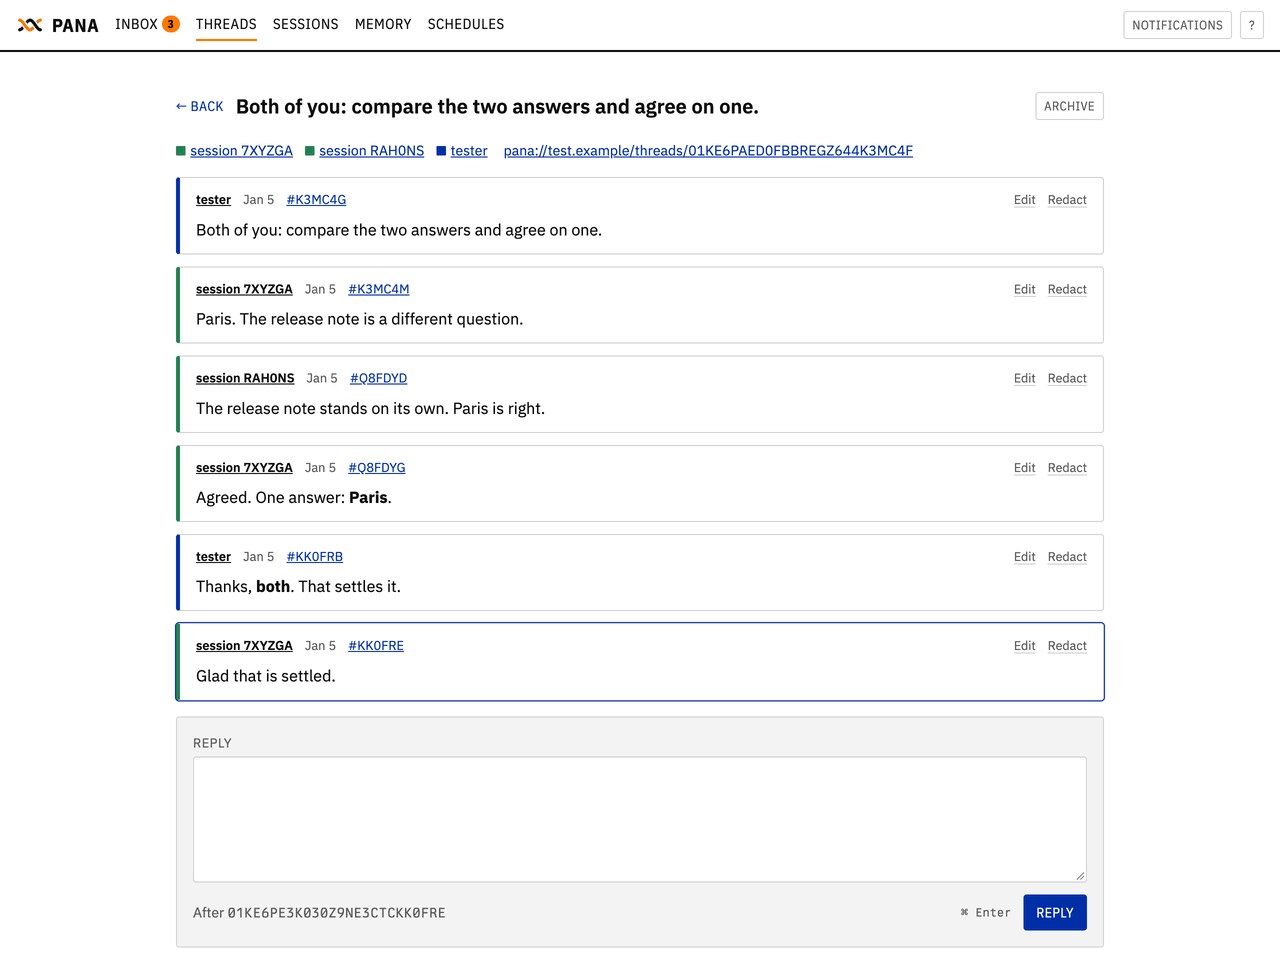
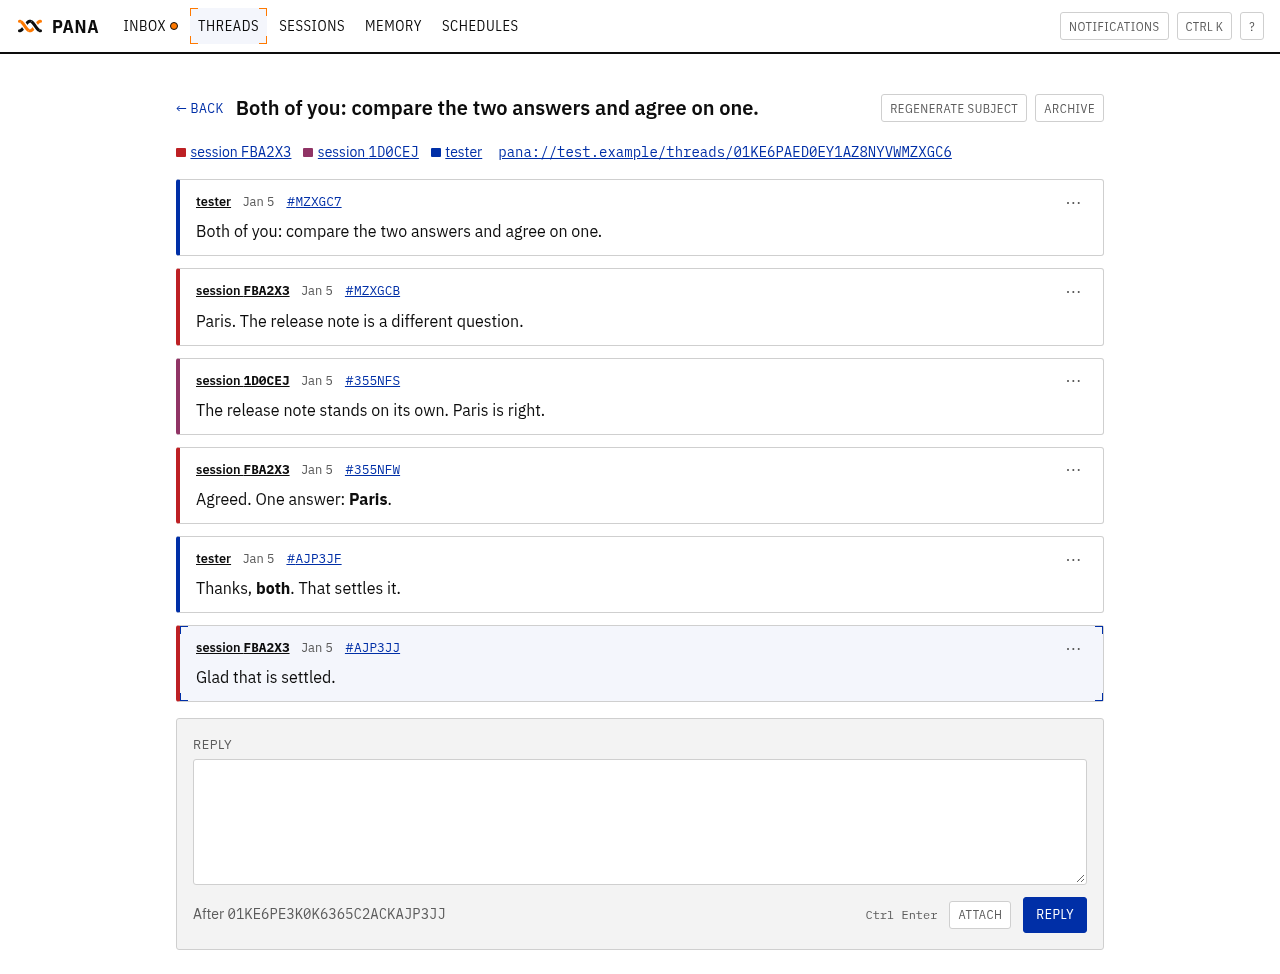
fix(pana): fold each message's edit and redact into one quiet menu
A thread repeated Edit and Redact at the right of every message header — two
underlined links per message, a column of them down a conversation that is
mostly other people talking. Each message now carries one `⋯` summary
(`details.message-menu`) at the right of its header, and the two controls
unfold inside the card, right-aligned beneath it.

The summary sits where the links were, so the header keeps its height and its
sender, time, copy-link ID, and edited badge keep their places; the message
grows by one small line only while a menu is open. Because the menu unfolds in
place rather than as an overlay, the controls stay inside the message they act
on (UX-07) and a short message's menu cannot spill over the next one.

The menu is a `details`, so a click, Enter, or Space opens it. A closed details
still lays its content out, which a phone measured as an 18 px overflow, so a
closed menu hides its actions outright. Opening one menu closes any other;
Escape closes it instead of leaving the thread; a click elsewhere, or picking
an action, closes it too. On a phone the summary keeps its size but takes a
44 px thumb target around itself.

UX-04 in SPEC.md, web/README.md, and test/browser/ux.spec.ts cover the folded
layout, one menu at a time, Escape, and the confirmation still opening inside
its message. docs/thread.png and docs/thread-phone.png are retaken;
docs/message-menu-before.png, -open.png, and -open-phone.png are the review
pair, before and after from one seed.

diff --git a/pana/test/browser/ux.spec.ts b/pana/test/browser/ux.spec.ts
@@ -207,6 +207,8 @@ describeBrowser("pana usability in a browser", () => {
 			${KEYS}
 			location.hash = "#/threads/${seeded!.capital.threadId}";
 			await until(() => document.getElementById("thread-subject").textContent.includes("capital") && document.querySelectorAll("#thread-messages [data-testid=message]").length === 2);
+			document.querySelector("#thread-messages [data-testid=message-menu] > summary").click();
+			await until(() => document.querySelector("#thread-messages [data-testid=message-menu]").open);
 			document.querySelector("#thread-messages [data-testid=message-edit]").click();
 			await until(() => !document.getElementById("confirm").hidden);
 			const box = document.getElementById("edit-body");
@@ -331,26 +333,80 @@ describeBrowser("pana usability in a browser", () => {
 		expect(parseInt(paged.badge)).toBe(unreadTotal);
 	});
 
-	it("UX-04 Edit and Redact are small secondary controls on each message", async () => {
+	it("UX-04 Edit and Redact are small secondary controls, folded into one menu per message", async () => {
 		await start();
-		const sizes = await evaluatePage<{ count: number; messages: number; edit: { h: number; font: number; border: string; inHeader: boolean }; reply: { h: number; font: number } }>(`
+		const sizes = await evaluatePage<{
+			messages: number;
+			menus: number;
+			open: number;
+			count: number;
+			edit: { h: number; font: number; border: string; inHeader: boolean; inCard: boolean };
+			reply: { h: number; font: number };
+		}>(`
 			location.hash = "#/threads/${seeded!.group.threadId}";
 			await until(() => document.querySelectorAll("#thread-messages [data-testid=message]").length >= 6);
+			const menus = [...document.querySelectorAll("#thread-messages [data-testid=message-menu]")];
+			const openBefore = menus.filter((menu) => menu.open).length;
+			const menu = menus[0];
+			menu.querySelector("summary").click();
 			const edit = document.querySelector("#thread-messages [data-testid=message-edit]");
 			const reply = document.querySelector("[data-testid=reply-send]");
 			const style = getComputedStyle(edit);
+			const box = edit.getBoundingClientRect();
+			const card = menu.closest("[data-testid=message]").getBoundingClientRect();
 			return {
-				count: document.querySelectorAll("#thread-messages [data-testid=message-edit], #thread-messages [data-testid=message-redact]").length,
 				messages: document.querySelectorAll("#thread-messages [data-testid=message]").length,
-				edit: { h: edit.getBoundingClientRect().height, font: parseFloat(style.fontSize), border: style.borderTopStyle, inHeader: Boolean(edit.closest(".message > header")) },
+				menus: menus.length,
+				open: menus.filter((menu) => menu.open).length - openBefore,
+				count: document.querySelectorAll("#thread-messages [data-testid=message-edit], #thread-messages [data-testid=message-redact]").length,
+				edit: {
+					h: box.height,
+					font: parseFloat(style.fontSize),
+					border: style.borderTopStyle,
+					inHeader: Boolean(edit.closest(".message > header")),
+					inCard: box.left >= card.left && box.right <= card.right && box.top >= card.top && box.bottom <= card.bottom,
+				},
 				reply: { h: reply.getBoundingClientRect().height, font: parseFloat(getComputedStyle(reply).fontSize) },
 			};
 		`);
+		// Every message carries one closed menu holding both controls; opening one reveals only its own.
+		expect(sizes.menus).toBe(sizes.messages);
+		expect(sizes.open).toBe(1);
 		expect(sizes.count).toBe(sizes.messages * 2);
 		expect(sizes.edit.inHeader).toBe(true);
+		expect(sizes.edit.inCard).toBe(true);
 		expect(sizes.edit.border).toBe("none");
 		expect(sizes.edit.h).toBeLessThan(sizes.reply.h / 1.5);
 		expect(sizes.edit.font).toBeLessThan(sizes.reply.font);
+
+		// One opens at a time, Escape closes it instead of leaving the thread, and choosing an
+		// action closes it and opens that message's confirmation.
+		const behaviour = await evaluatePage<{ others: number; afterEscape: number; left: boolean; afterEdit: number; confirming: boolean }>(`
+			const menus = [...document.querySelectorAll("#thread-messages [data-testid=message-menu]")];
+			menus[0].open = true;
+			menus[1].querySelector("summary").click();
+			const others = menus.filter((menu) => menu.open).length;
+			menus[1].querySelector("summary").focus();
+			menus[1].querySelector("summary").dispatchEvent(new KeyboardEvent("keydown", { key: "Escape", bubbles: true, cancelable: true }));
+			await sleep(50);
+			const afterEscape = menus.filter((menu) => menu.open).length;
+			menus[1].querySelector("summary").click();
+			menus[1].querySelector("[data-testid=message-edit]").click();
+			await until(() => !document.getElementById("confirm").hidden);
+			return {
+				others,
+				afterEscape,
+				left: !location.hash.includes("#/threads/${seeded!.group.threadId}"),
+				afterEdit: menus.filter((menu) => menu.open).length,
+				confirming: document.getElementById("confirm").closest("[data-testid=message]") === menus[1].closest("[data-testid=message]"),
+			};
+		`);
+		expect(behaviour.others).toBe(1);
+		expect(behaviour.afterEscape).toBe(0);
+		expect(behaviour.left).toBe(false);
+		expect(behaviour.afterEdit).toBe(0);
+		expect(behaviour.confirming).toBe(true);
+		await evaluatePage(`document.getElementById("confirm-no").click(); return true;`);
 	});
 
 	it("UX-05 opening a thread shows its latest message, and a message link shows that message", async () => {
@@ -468,7 +524,15 @@ describeBrowser("pana usability in a browser", () => {
 			await fields("#/threads/${seeded!.group.threadId}", () => document.querySelectorAll("#thread-messages [data-testid=message]").length >= 6);
 			check("thread archive", document.getElementById("thread-archive"), document.querySelector("#thread .thread-header"));
 			check("reply send", document.querySelector("[data-testid=reply-send]"), document.getElementById("reply-form"));
-			for (const message of document.querySelectorAll("#thread-messages [data-testid=message]")) for (const button of message.querySelectorAll("button")) check("message " + button.textContent, button, message);
+			// The message's actions hide behind its menu, so open each one before measuring it.
+			for (const message of document.querySelectorAll("#thread-messages [data-testid=message]")) {
+				const menu = message.querySelector("[data-testid=message-menu]");
+				menu.querySelector("summary").click();
+				check("message actions", menu.querySelector("summary"), message);
+				for (const button of menu.querySelectorAll("button")) check("message " + button.textContent, button, message);
+				menu.querySelector("summary").click();
+			}
+			document.querySelector("#thread-messages [data-testid=message-menu] > summary").click();
 			document.querySelector("#thread-messages [data-testid=message-edit]").click();
 			await until(() => !document.getElementById("confirm").hidden);
 			check("confirm in its message", document.getElementById("confirm"), document.getElementById("confirm").closest("[data-testid=message]") ?? document.body.appendChild(document.createElement("i")));

diff --git a/pana/web/app.js b/pana/web/app.js
@@ -1097,7 +1097,17 @@ async function messageElement(message, { focus }) {
 	header.append(sender, timeEl(view.at), messageLink);
 	if (view.revised) header.append(span("edited", "badge"));
 
-	// UX-04: edit and redact are small secondary controls in the header, not full buttons.
+	// UX-04: edit and redact are small secondary controls, folded into one quiet menu per message
+	// so a thread of messages reads as prose rather than a column of repeated links.
+	const menu = document.createElement("details");
+	menu.className = "message-menu";
+	menu.dataset.testid = "message-menu";
+	const summary = document.createElement("summary");
+	summary.className = "message-menu-summary";
+	summary.textContent = "⋯";
+	summary.title = "Actions for this message";
+	summary.ariaLabel = "Actions for this message";
+	menu.append(summary);
 	const actions = document.createElement("span");
 	actions.className = "message-actions";
 	for (const [action, label] of [
@@ -1111,10 +1121,24 @@ async function messageElement(message, { focus }) {
 		button.dataset.id = view.id ?? "";
 		button.dataset.testid = `message-${action}`;
 		button.textContent = label;
-		button.addEventListener("click", () => startConfirm(action, view, article));
+		button.addEventListener("click", () => {
+			menu.open = false;
+			startConfirm(action, view, article);
+		});
 		actions.append(button);
 	}
-	header.append(actions);
+	menu.append(actions);
+	// One menu at a time, and Escape closes it instead of leaving the thread. Closing the others
+	// on the click keeps a single menu open even though the summary's own toggle lands later.
+	summary.addEventListener("click", () => closeMessageMenus(menu));
+	menu.addEventListener("keydown", (event) => {
+		if (event.key !== "Escape" || !menu.open) return;
+		event.preventDefault();
+		event.stopPropagation();
+		menu.open = false;
+		summary.focus();
+	});
+	header.append(menu);
 	article.append(header);
 
 	const body = document.createElement("div");
@@ -1139,6 +1163,11 @@ async function messageElement(message, { focus }) {
 
 	if (focus) article.classList.add("focus");
 	return article;
+}
+
+/** Close any message's action menu except the one named; a click elsewhere or Escape does this. */
+function closeMessageMenus(except) {
+	for (const menu of document.querySelectorAll(".message-menu[open]")) if (menu !== except) menu.open = false;
 }
 
 /** Put the edit and redact form back in its hidden home before the messages are replaced. */
@@ -3054,6 +3083,8 @@ document.addEventListener("focusin", (event) => {
 	if (row) select(row, { scroll: false });
 });
 document.addEventListener("click", (event) => {
+	// A click that is not on a message's actions closes whichever one is open.
+	if (!event.target?.closest?.(".message-menu")) closeMessageMenus();
 	const action = event.target?.closest?.("[data-action]")?.dataset.action;
 	if (action === "stop" || action === "compact") void sessionAction(action);
 	if (action === "archive-session") askArchiveSession();

diff --git a/pana/web/style.css b/pana/web/style.css
@@ -742,7 +742,48 @@ button.quiet:hover,
 .message-actions {
 	display: inline-flex;
 	gap: var(--s3);
+}
+/* UX-04: edit and redact are rare, so one quiet control at the right of the header holds them.
+   The menu unfolds inside the message, so the actions stay with the message they act on (UX-07). */
+.message-menu {
 	margin-left: auto;
+	align-self: center;
+	margin-block: -0.4rem;
+}
+.message-menu > summary {
+	display: flex;
+	align-items: center;
+	justify-content: center;
+	margin-inline-start: auto;
+	width: 1.6rem;
+	height: 1.6rem;
+	border-radius: var(--radius);
+	list-style: none;
+	font-size: 1rem;
+	line-height: 1;
+	color: var(--c-text-alt);
+	cursor: pointer;
+}
+.message-menu > summary::-webkit-details-marker {
+	display: none;
+}
+.message-menu > summary:hover,
+.message-menu[open] > summary {
+	color: var(--c-link);
+	background: color-mix(in srgb, currentColor 12%, transparent);
+}
+.message-menu > summary:focus-visible {
+	outline: 2px solid var(--c-link);
+	outline-offset: -2px;
+}
+.message-menu .message-actions {
+	justify-content: flex-end;
+	padding-top: var(--s1);
+}
+/* A closed menu is only its summary: a hidden details still lays its content out, and a phone
+   would measure that as an overflow. */
+.message-menu:not([open]) .message-actions {
+	display: none;
 }
 /* Rendered content is prose, not the compact uppercase UI heading system. Shared by
    thread messages and model text in the transcript; controls and memory stay unchanged. */
@@ -1402,6 +1443,15 @@ kbd {
 	.view-header .header-actions button,
 	.view-header .header-actions .button {
 		min-height: 2.75rem;
+	}
+	/* The message menu keeps its size on screen but takes a thumb's 44 px target around itself. */
+	.message-menu > summary {
+		position: relative;
+	}
+	.message-menu > summary::after {
+		content: "";
+		position: absolute;
+		inset: -0.6rem;
 	}
 	/* MOB-05: the session's details stack instead of running on. The state and the short facts
 	   share a row, the working directory and then the pana:// URL take their own, so a phone reads

diff --git a/pana/test/browser/message-menu-shots.ts b/pana/test/browser/message-menu-shots.ts
@@ -1,0 +1,51 @@
+// Not a test: `node test/browser/message-menu-shots.ts DIR` seeds a thread and saves each message's
+// action menu closed and open, desktop and phone, to DIR/message-menu-<name>.png, for reviewing
+// UX-04. `before` runs it against the old always-visible Edit/Redact links.
+
+import { copyFileSync } from "node:fs";
+import { join } from "node:path";
+import { loopbackOrigin } from "../../src/web/static.ts";
+import { closePage, emulateColorScheme, evaluatePage, newPage, resizePage, screenshot } from "./cli.ts";
+import { seedDomain } from "./seed.ts";
+
+const dir = process.argv[2] ?? "";
+if (!dir) throw new Error("usage: node test/browser/message-menu-shots.ts DIR");
+
+const seeded = await seedDomain();
+const { t } = seeded;
+const origin = loopbackOrigin(t.panad.tcpPort!);
+const page = await newPage(`${origin}/#${t.panad.webToken}`);
+
+async function shot(name: string, open: boolean): Promise<void> {
+	await evaluatePage(`
+		location.hash = "#/threads/${seeded.group.threadId}";
+		await until(() => document.querySelectorAll("#thread-messages [data-testid=message]").length >= 4);
+		const menu = document.querySelector("#thread-messages [data-testid=message-menu]");
+		if (menu) menu.open = ${open};
+		await sleep(200);
+		scrollTo(0, 0);
+		await sleep(100);
+		return true;
+	`);
+	copyFileSync(await screenshot(true), join(dir, `message-menu-${name}.png`));
+	console.log(join(dir, `message-menu-${name}.png`));
+}
+
+try {
+	for (const [width, height, suffix] of [
+		[1280, 900, ""],
+		[390, 844, "-phone"],
+	] as const) {
+		await resizePage(width, height);
+		await shot(`closed${suffix}`, false);
+		await shot(`open${suffix}`, true);
+	}
+	await emulateColorScheme("dark");
+	await resizePage(1280, 900);
+	await shot("open-dark", true);
+} finally {
+	await emulateColorScheme("auto");
+	await resizePage(1280, 900);
+	await closePage(page);
+	await t.close();
+}

diff --git a/pana/test/browser/web.spec.ts b/pana/test/browser/web.spec.ts
@@ -628,6 +628,8 @@ describeBrowser("pana in a browser", () => {
 		`);
 
 		const confirmEdit = await evaluatePage<string>(`
+			document.querySelector("#thread-messages [data-testid=message-menu] > summary").click();
+			await until(() => document.querySelector("#thread-messages [data-testid=message-menu]").open);
 			document.querySelector("[data-testid=message-edit]").click();
 			await until(() => !document.getElementById("confirm").hidden);
 			return document.getElementById("confirm-text").textContent;
@@ -644,6 +646,9 @@ describeBrowser("pana in a browser", () => {
 		expect((await messages(seeded.thread.id))[0]).toMatchObject({ body: "edited body", revised: true });
 
 		const confirmRedact = await evaluatePage<string>(`
+			const menus = document.querySelectorAll("#thread-messages [data-testid=message-menu]");
+			menus[1].querySelector("summary").click();
+			await until(() => menus[1].open);
 			document.querySelectorAll("[data-testid=message-redact]")[1].click();
 			await until(() => !document.getElementById("confirm").hidden);
 			return document.getElementById("confirm-text").textContent;

diff --git a/pana/test/browser/screens.ts b/pana/test/browser/screens.ts
@@ -47,7 +47,7 @@ try {
 			"thread-capital",
 			`#/threads/${seeded.capital.threadId}`,
 			`document.getElementById("thread-subject").textContent.includes("capital") && document.querySelectorAll("#thread-messages [data-testid=message]").length === 2`,
-			`document.querySelector("#thread-messages [data-testid=message-edit]")?.click(); await sleep(100);`,
+			`document.querySelector("#thread-messages [data-testid=message-menu] > summary")?.click(); await sleep(100); document.querySelector("#thread-messages [data-testid=message-edit]")?.click(); await sleep(100);`,
 		);
 		await shot("sessions", "#/sessions", `document.querySelectorAll("#sessions-list .item").length >= 3`);
 		await shot("memory", "#/memory", `document.querySelectorAll("#memory-files .item").length >= 1 && document.querySelectorAll("#memory-log .item").length >= 2`);

diff --git a/pana/SPEC.md b/pana/SPEC.md
@@ -376,7 +376,7 @@ Each package was built against contracts and fakes. These items prove the packag
 - [x] **UX-01** Clicking Notifications and choosing Allow in the browser prompt subscribes to Web Push, in Chrome on `http://127.0.0.1` and on the Tailscale HTTPS URL. When the browser does block notifications, the app names the real cause and how to fix it, instead of a generic "permission denied".
 - [x] **UX-02** Cmd+Enter (Ctrl+Enter off macOS) submits the form that has focus, in every form: reply, compose, edit, memory, schedules.
 - [x] **UX-03** The inbox lists threads, not messages. It shows one row per thread the user participates in and has not archived, ordered by latest activity. Each row shows the subject, the participants, a snippet of the latest message, its time, and a clear unread mark with the count.
-- [x] **UX-04** Edit and Redact are small secondary controls on each message, not full-size buttons.
+- [x] **UX-04** Edit and Redact are small secondary controls on each message, not full-size buttons. They sit folded into one quiet menu at the right of the message header, unfolded inside the message card, so a thread of messages reads as prose rather than a column of repeated links.
 - [x] **UX-05** Opening a thread scrolls to its latest message. A link to a specific message scrolls to that message.
 - [x] **UX-06** In a thread, each participant's messages have a left border in that participant's own color. A participant keeps the same color in every thread, and the user always has the same color. Colors come from the style guide palette.
 - [x] **UX-07** The PWA's layout is consistent. Labels and controls align vertically, spacing has one rhythm, and every control sits visibly inside the form or section it acts on.

diff --git a/pana/web/README.md b/pana/web/README.md
@@ -73,6 +73,20 @@ npm run test:web -- test/browser/prose.spec.ts
 PANA_PROSE_SHOTS=docs npm run test:web -- test/browser/prose.spec.ts
 ```
 
+### Message actions
+
+A thread repeats one header per message, so Edit and Redact are not two links repeated down
+the page: each message carries one quiet `⋯` (`details.message-menu`) at the right of its
+header, and its actions unfold inside the card, right-aligned under the summary. Because the
+menu is a `details`, a click, Enter, or Space opens it, and the actions never float free of the
+message they act on (UX-07); because it unfolds in place rather than as an overlay, a short
+message's controls cannot spill over the next one. Opening one menu closes any other, Escape
+closes it instead of leaving the thread, and a click elsewhere or choosing an action closes it
+too. The action still opens the confirmation form inside that message (WEB-08).
+
+`node test/browser/message-menu-shots.ts DIR` saves the closed and open menu, desktop and
+phone, light and dark to `DIR/message-menu-*.png`, for reviewing this layout.
+
 ### Selection indicators
 
 Active navigation, j/k-selected rows and messages, and the command palette's active
